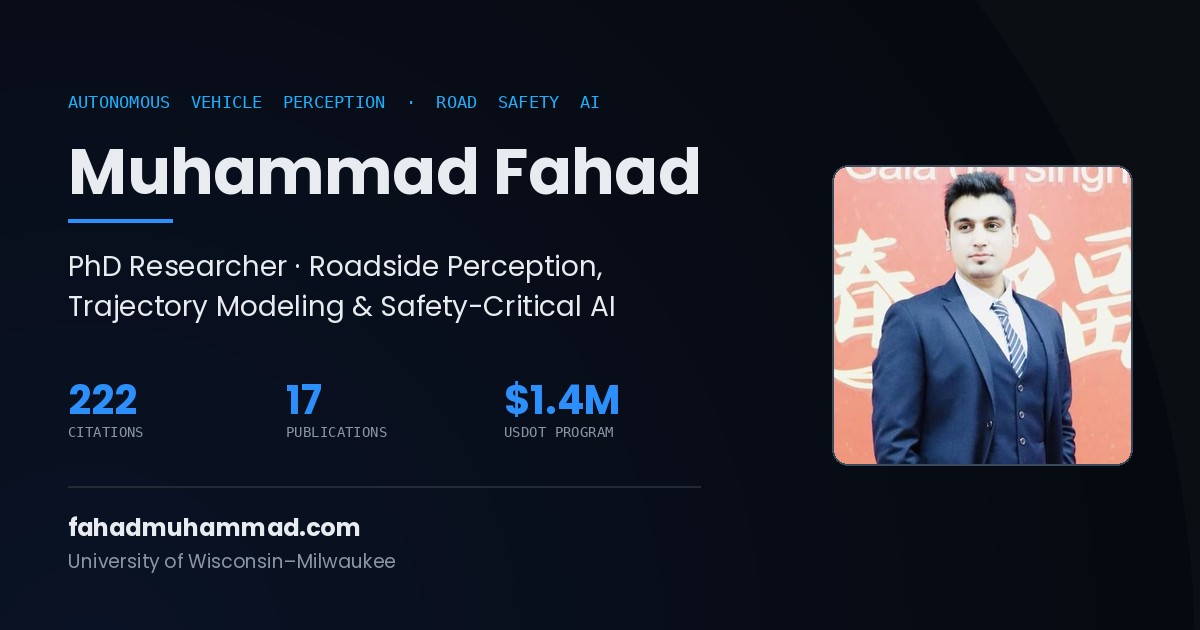
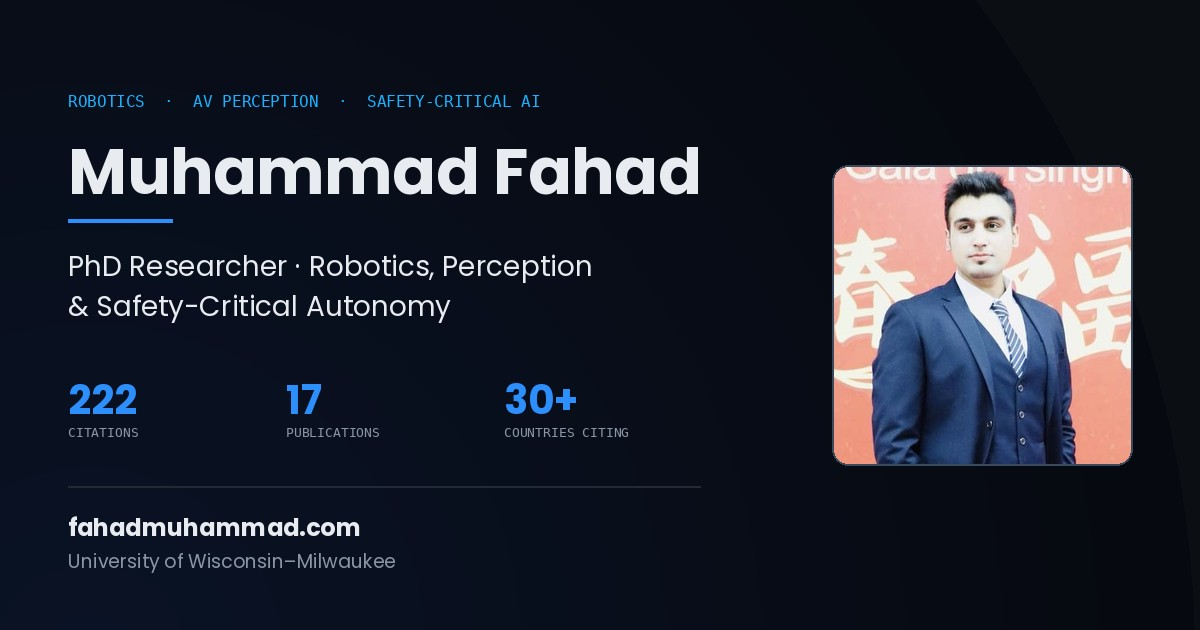
Add files via upload

diff --git a/index.html b/index.html
@@ -4,29 +4,29 @@
 <meta charset="utf-8">
 <meta name="viewport" content="width=device-width, initial-scale=1">
 
-<title>Muhammad Fahad — Autonomous Vehicle Perception & Safety-Critical AI Researcher</title>
-<meta name="description" content="Muhammad Fahad is a PhD researcher in autonomous vehicle perception at UW–Milwaukee. Roadside perception evaluation, pedestrian trajectory datasets, sensor fusion and nighttime vulnerable-road-user detection. 222 citations, first-author TRB and ASCE ICTD papers, lead researcher on WisDOT project 0092-25-23.">
-<meta name="keywords" content="autonomous vehicle perception researcher, roadside perception evaluation, pedestrian trajectory dataset, vulnerable road user detection, nighttime pedestrian detection, VRU perception, nighttime glare dataset, headlight glare measurement, glare screening index, connected vehicle speed advisory, multi-object tracking, sensor fusion RTK GNSS, safety-critical AI, ADAS validation, trajectory prediction, computer vision PhD autonomous driving, intelligent transportation systems, AV safety validation, YOLOv9 DeepSORT tracking, Muhammad Fahad">
+<title>Muhammad Fahad — Robotics &amp; Autonomous Vehicle Perception | Safety-Critical AI Researcher</title>
+<meta name="description" content="Muhammad Fahad is a PhD researcher in robotics and autonomous vehicle perception at UW–Milwaukee. Robotic state estimation and control, roadside perception evaluation, pedestrian trajectory datasets, sensor fusion and nighttime vulnerable-road-user detection. 222 citations, cited in 30+ countries, lead researcher on WisDOT project 0092-25-23.">
+<meta name="keywords" content="robotics researcher, autonomous vehicle perception researcher, robot perception, field robotics, mobile robotics, robotic state estimation, SLAM, motion planning, ROS robotics engineer, autonomous ground vehicles, robotic testbed, roadside perception evaluation, pedestrian trajectory dataset, vulnerable road user detection, nighttime pedestrian detection, VRU perception, nighttime glare dataset, headlight glare measurement, glare screening index, connected vehicle speed advisory, multi-object tracking, sensor fusion RTK GNSS, safety-critical AI, ADAS validation, trajectory prediction, computer vision PhD autonomous driving, intelligent transportation systems, AV safety validation, YOLOv9 DeepSORT tracking, Muhammad Fahad">
 <meta name="author" content="Muhammad Fahad">
 <meta name="robots" content="index, follow, max-snippet:-1, max-image-preview:large, max-video-preview:-1">
 <link rel="canonical" href="https://fahadmuhammad.com/">
 
 <meta property="og:type" content="profile">
 <meta property="og:site_name" content="Muhammad Fahad">
-<meta property="og:title" content="Muhammad Fahad — Autonomous Vehicle Perception & Safety-Critical AI Researcher">
-<meta property="og:description" content="PhD researcher in autonomous vehicle perception. Roadside perception evaluation, pedestrian trajectory datasets and nighttime VRU detection. 222 citations, h-index 8; lead researcher on WisDOT 0092-25-23.">
+<meta property="og:title" content="Muhammad Fahad — Robotics &amp; Autonomous Vehicle Perception Researcher">
+<meta property="og:description" content="PhD researcher in robotics and autonomous vehicle perception. Robotic state estimation, roadside perception evaluation and nighttime VRU detection. 222 citations from 30+ countries; lead researcher on WisDOT 0092-25-23.">
 <meta property="og:url" content="https://fahadmuhammad.com/">
 <meta property="og:image" content="https://fahadmuhammad.com/assets/og-image.jpg">
 <meta property="og:image:width" content="1200">
 <meta property="og:image:height" content="630">
-<meta property="og:image:alt" content="Muhammad Fahad, autonomous vehicle perception researcher at UW–Milwaukee">
+<meta property="og:image:alt" content="Muhammad Fahad, robotics and autonomous vehicle perception researcher at UW–Milwaukee">
 <meta property="og:locale" content="en_US">
 <meta property="profile:first_name" content="Muhammad">
 <meta property="profile:last_name" content="Fahad">
 
 <meta name="twitter:card" content="summary_large_image">
-<meta name="twitter:title" content="Muhammad Fahad — Autonomous Vehicle Perception & Safety-Critical AI">
-<meta name="twitter:description" content="Roadside perception evaluation, pedestrian trajectory datasets, nighttime VRU detection. 222 citations, h-index 8.">
+<meta name="twitter:title" content="Muhammad Fahad — Robotics &amp; Autonomous Vehicle Perception">
+<meta name="twitter:description" content="Robotics, roadside perception evaluation, pedestrian trajectory datasets, nighttime VRU detection. 222 citations from 30+ countries.">
 <meta name="twitter:image" content="https://fahadmuhammad.com/assets/og-image.jpg">
 <meta name="twitter:creator" content="@iamfahadusa">
 
@@ -348,14 +348,15 @@ footer{border-top:1px solid var(--line-soft);padding:38px 0;color:var(--dim);fon
 <section class="hero" itemscope itemtype="https://schema.org/Person">
   <div class="hero-grid">
     <div>
-      <p class="eyebrow">Autonomous vehicle perception · Safety-critical AI</p>
+      <p class="eyebrow">Robotics · Autonomous vehicle perception · Safety-critical AI</p>
       <h1><span itemprop="name">Muhammad Fahad</span></h1>
       <p class="role" itemprop="jobTitle">PhD Researcher &amp; Graduate Research Assistant<br>
         University of Wisconsin–Milwaukee · <span itemprop="address">Milwaukee, WI</span></p>
-      <p class="lede">I build and validate the perception systems that decide whether an
-        autonomous vehicle sees a pedestrian in time. My work spans roadside and onboard
-        perception, trajectory-level evaluation, sensor fusion, and the field experiments that
-        prove a safety claim holds on real roads at night — not only in a benchmark.</p>
+      <p class="lede">I build and validate the perception, estimation and control stacks that
+        decide whether a robot or an autonomous vehicle sees a pedestrian in time. My work runs from
+        state estimation and control theory through roadside and onboard perception to scaled robotic
+        test platforms — and out to the field experiments that prove a safety claim holds on real
+        roads at night, not only in a benchmark.</p>
 
       <div class="cta">
         <a class="btn solid" href="#crosswalk">See the flagship study</a>
@@ -367,7 +368,7 @@ footer{border-top:1px solid var(--line-soft);padding:38px 0;color:var(--dim);fon
 
     <figure class="portrait" style="margin:0">
       <img src="assets/fahad-portrait.jpg" width="700" height="700"
-           alt="Muhammad Fahad, autonomous vehicle perception researcher at the University of Wisconsin–Milwaukee"
+           alt="Muhammad Fahad, robotics and autonomous vehicle perception researcher at the University of Wisconsin–Milwaukee"
            itemprop="image" fetchpriority="high">
       <figcaption>Muhammad Fahad · Tsinghua University, Beijing</figcaption>
     </figure>
@@ -414,6 +415,11 @@ footer{border-top:1px solid var(--line-soft);padding:38px 0;color:var(--dim);fon
     <div class="stat"><b>281</b><span>Nighttime field test rounds</span></div>
     <div class="stat"><b>$1.4M</b><span>USDOT program contribution</span></div>
   </div>
+  <p class="mono rv" style="font-size:13px;color:var(--muted);margin:16px 0 0;line-height:1.7">
+    Cited by researchers in <b style="color:var(--ice);font-weight:500">30+ countries</b>
+    · h-index 8 · i10-index 8 · most-cited paper 43 citations
+    · three papers in <span style="color:#A9B6C4">IEEE Transactions on Intelligent Transportation Systems</span>
+  </p>
 </section>
 
 <!-- ════════ EVIDENCE INDEX ════════ -->
@@ -673,6 +679,34 @@ footer{border-top:1px solid var(--line-soft);padding:38px 0;color:var(--dim);fon
         <span class="tag">Driver modeling</span><span class="tag">In progress</span>
       </div>
     </div>
+
+    <div class="card rv">
+      <h3>Robotic state estimation &amp; control</h3>
+      <p>Most of my citation record comes from this line of work: extended Kalman filters for
+        real-time pressure and slip estimation, nonlinear fractional-order and finite-frequency H∞
+        observers, sliding-mode observers for actuator control, and model predictive and iterative
+        learning controllers. These are the estimation and control primitives any mobile robot needs
+        when its sensors are noisy, its actuators lag, and its state is only partly observable.</p>
+      <div class="tags">
+        <span class="tag">Extended Kalman filter</span><span class="tag">H∞ observers</span>
+        <span class="tag">Sliding-mode observers</span><span class="tag">Model predictive control</span>
+        <span class="tag">Iterative learning control</span>
+      </div>
+    </div>
+
+    <div class="card rv">
+      <h3>Field robotics &amp; instrumentation</h3>
+      <p>Controlled experiments on live public roads need robotic test targets and hardware that
+        holds calibration outside a lab. I built the rig behind the crosswalk study: a mannequin on a
+        remote-controlled platform producing repeatable pedestrian crossings, synchronized against
+        roadway video, driver-facing infrared, brake logging and 125 Hz RTK positioning — deployed
+        across 281 rounds through rain, wet pavement and late-season cold.</p>
+      <div class="tags">
+        <span class="tag">Remote-controlled platforms</span><span class="tag">Sensor synchronization</span>
+        <span class="tag">RTK GNSS</span><span class="tag">All-weather deployment</span>
+        <span class="tag">Hardware calibration</span>
+      </div>
+    </div>
   </div>
 
   <div class="grid g3" style="margin-top:16px">
@@ -682,7 +716,7 @@ footer{border-top:1px solid var(--line-soft);padding:38px 0;color:var(--dim);fon
         <span class="tag">YOLOv9 / detection</span><span class="tag">Multi-object tracking</span>
         <span class="tag">Re-identification</span><span class="tag">Camera calibration</span>
         <span class="tag">Panoramic imaging</span><span class="tag">Gaze estimation</span>
-        <span class="tag">Low-light perception</span>
+        <span class="tag">Low-light perception</span><span class="tag">Robot perception</span>
       </div>
     </div>
     <div class="card rv">
@@ -691,6 +725,7 @@ footer{border-top:1px solid var(--line-soft);padding:38px 0;color:var(--dim);fon
         <span class="tag">Sensor fusion</span><span class="tag">RTK GNSS / INS</span>
         <span class="tag">Kalman &amp; EKF</span><span class="tag">Model predictive control</span>
         <span class="tag">H∞ methods</span><span class="tag">Trajectory reconstruction</span>
+        <span class="tag">State estimation</span><span class="tag">Motion planning</span>
       </div>
     </div>
     <div class="card rv">
@@ -699,6 +734,7 @@ footer{border-top:1px solid var(--line-soft);padding:38px 0;color:var(--dim);fon
         <span class="tag">Python</span><span class="tag">C++</span><span class="tag">PyTorch</span>
         <span class="tag">MATLAB / Simulink</span><span class="tag">ROS</span>
         <span class="tag">CUDA</span><span class="tag">Field instrumentation</span>
+        <span class="tag">Embedded systems</span>
       </div>
     </div>
   </div>
@@ -1270,8 +1306,8 @@ footer{border-top:1px solid var(--line-soft);padding:38px 0;color:var(--dim);fon
       "name": "Muhammad Fahad",
       "givenName": "Muhammad",
       "familyName": "Fahad",
-      "jobTitle": "PhD Researcher, Autonomous Vehicle Perception and Safety-Critical AI",
-      "description": "PhD researcher in autonomous vehicle perception at the University of Wisconsin-Milwaukee. Roadside perception evaluation, pedestrian trajectory datasets, sensor fusion and nighttime vulnerable-road-user detection.",
+      "jobTitle": "PhD Researcher, Robotics and Autonomous Vehicle Perception",
+      "description": "PhD researcher in robotics and autonomous vehicle perception at the University of Wisconsin-Milwaukee. Robotic state estimation and control, roadside perception evaluation, pedestrian trajectory datasets, sensor fusion and nighttime vulnerable-road-user detection.",
       "url": "https://fahadmuhammad.com/",
       "image": "https://fahadmuhammad.com/assets/fahad-portrait.jpg",
       "email": "mailto:iamfahadusa@gmail.com",
@@ -1291,6 +1327,13 @@ footer{border-top:1px solid var(--line-soft);padding:38px 0;color:var(--dim);fon
         { "@type": "CollegeOrUniversity", "name": "Sarhad University of Science and Information Technology" }
       ],
       "knowsAbout": [
+        "Robotics",
+        "Field robotics",
+        "Robot perception",
+        "Robotic state estimation",
+        "Motion planning",
+        "SLAM",
+        "ROS",
         "Autonomous vehicle perception",
         "Roadside perception evaluation",
         "Pedestrian trajectory datasets",
